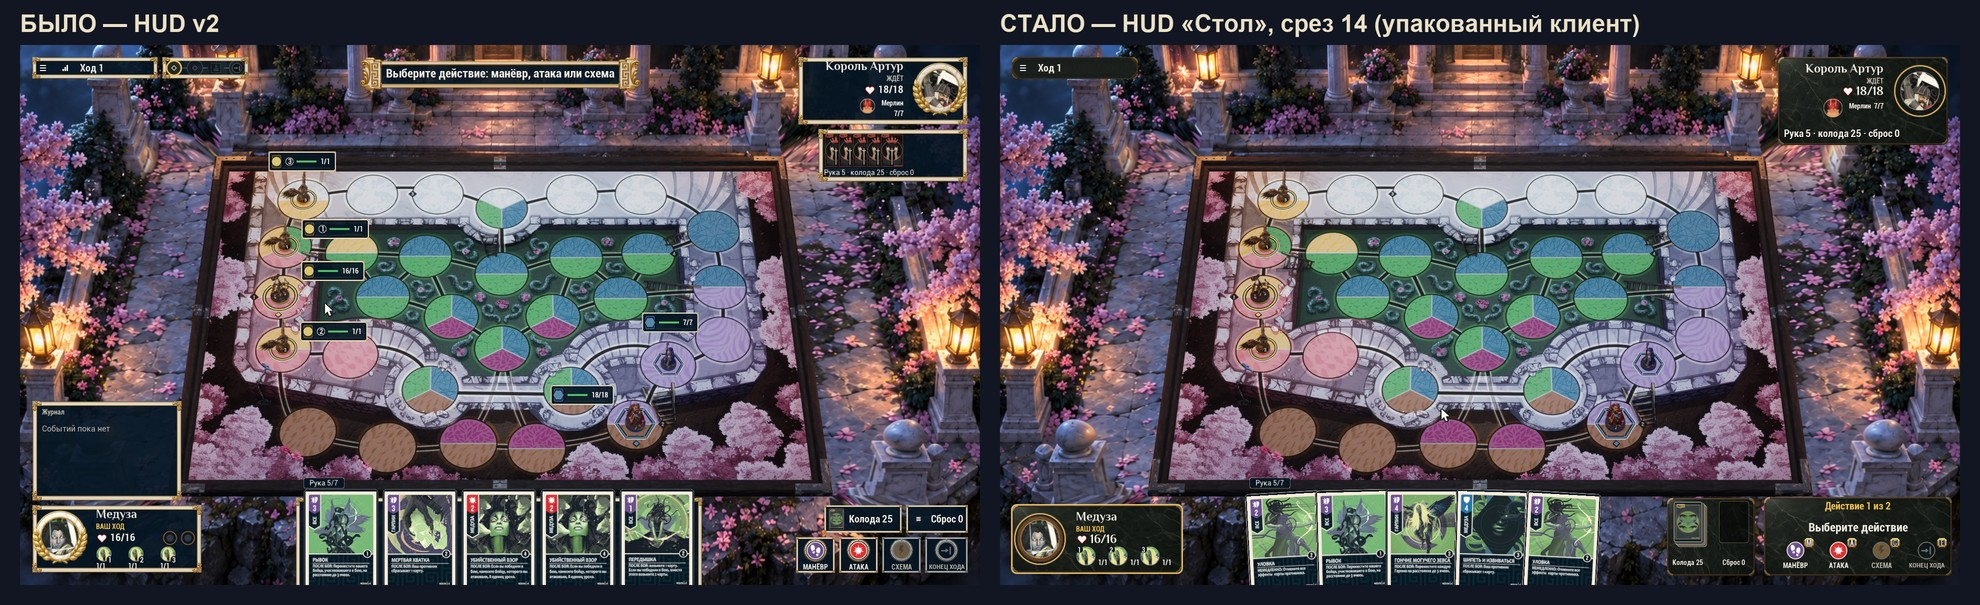
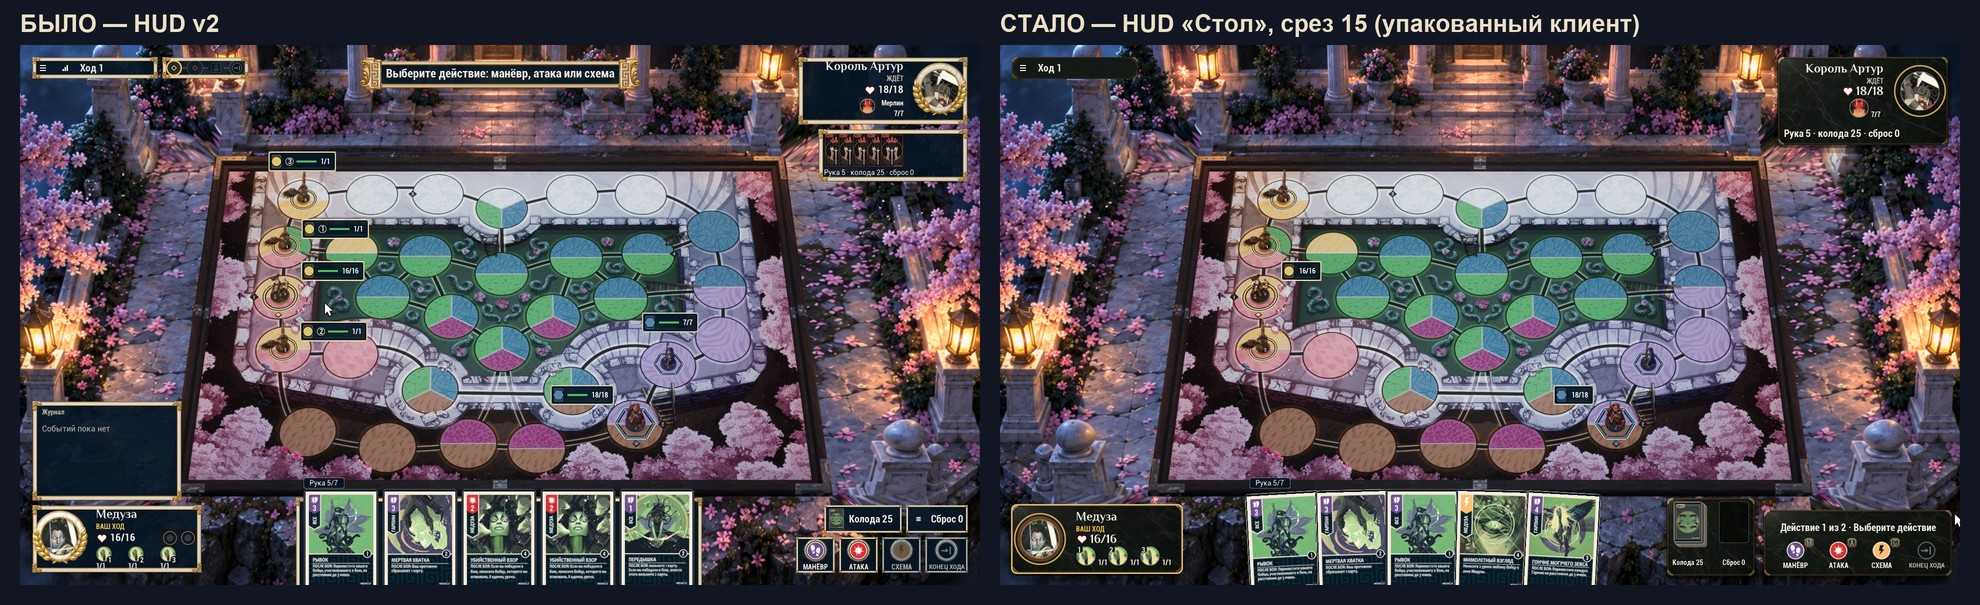
docs(hud): slice 15 pass and its blind review (Astra xhigh 7.0 vs 5.8, Opus max 7.0 vs 5.0)

diff --git a/docs/game-design/hud-redesign/08-BLIND-FINAL.md b/docs/game-design/hud-redesign/08-BLIND-FINAL.md
@@ -152,3 +152,40 @@ Opus +1,5 против +1,9, у Astra +1,17 против +1,5. Оценки чи
 
 Только у Opus: рука сдвинута на 115 px левее оси экрана, Мерлина показать жетоном, вернуть лавр на портреты
 героев.
+
+## Проход по общим замечаниям среза 14 — срез 15 (2026-10-16, 6c46cd44)
+
+Задание пользователя: «Сделай проход по совпадающим замечаниям среза 14 (значки v3 не трогай)».
+
+| Замечание (общее у Astra и Opus) | Что сделано |
+|---|---|
+| HP приходится искать в углах | Над каждым героем постоянно виден компактный чип здоровья. Плашки помощников показываются при наведении, выборе, на целях атаки и после урона. Зелёной полосы в стиле MMO на теге под видом «Стол» больше нет. |
+| Шапка панели в 2 строки тяжелее команд | Шапка в одну строку и на кегль меньше: «Действие 1 из 2 · Выберите действие». Номер действия берётся из трекера действий хода; пока идёт начатый шаг (движение манёвра, бой, отложенный выбор), показывается его действие (`FS09TurnStatusInput.ActionNow/ActionSlots`). Отдельная строка стадии убрана. |
+| Клавиши M/A/G/E ярче значков | Чипы клавиш на 55 % непрозрачности; на недоступной команде скрыты. Сами значки v3 не тронуты. |
+| Плоские плиты | Мягкая двухслойная тень под карточками героев, панелью соперника, панелью управления и лотком стопок. Мрамор под текстом затемнён ×0,4. |
+| Разные ячейки помощников | Мерлин показан жетоном с «7/7» сбоку, как гарпии. |
+
+Тесты: Unmatched.S08 — 397/397, Unmatched.S09 — 114/114. Проверено вживую на 1920×1080, 1280×720, 1440×1080 (S),
+2560×1080 и на черновике манёвра. Кадр снят с упакованного клиента.
+
+### Слепое сравнение среза 15 (`blind-s15/`; новый HUD — A)
+
+| Рецензент | HUD v2 | «Стол» | Разница | Срез 14 | Срез 13 |
+|---|---:|---:|---:|---:|---:|
+| GPT Astra xhigh | 5,8 | **7,0** | +1,2 | +1,83 | +1,17 |
+| Opus max | 5,0 | **7,0** | +2,0 | +2,2 | +1,5 |
+
+Новый HUD снова выиграл у обоих рецензентов. Абсолютная оценка держится около 7,0. Разница в пределах шума
+прогонов (±0,5): старый HUD тоже получает от раза к разу разные оценки. Срез 15 оценку не поднял. Читаемость Opus
+снова отдал новому HUD (7 против 6), у Astra — паритет.
+
+Совпадающие замечания этого прогона:
+1. **Рука.** Обрезана снизу, мелкий текст. Opus дополнительно: центр руки на ~115 px левее оси экрана.
+2. **HP на поле.** У Мерлина и гарпий числа нет; чип «16/16» читается как здоровье гарпии рядом. Нужна привязка
+   под кольцом базы, материал панелей вместо синего.
+3. **Панель действий.** Кнопки плоские, «Конец хода» не выделен. Это значки v3 — решает пользователь.
+4. **Панели игроков.** Нет единой сетки; Мерлин без подписи после среза 15 — регрессия, вернуть имя.
+5. **Колода и сброс.** Счётчики мелкие, пустой сброс выглядит как незаполненный слот.
+
+**Вывод для пользователя:** после среза 12 разница со старым HUD держится на 1,2–2,2 балла. Оставшиеся пункты
+упираются в арт: портреты, материал кнопок v3, чипы на поле. Раскладкой их уже не поднять.

diff --git a/docs/game-design/hud-redesign/blind-s15/REVIEW-ASTRA-XHIGH.md b/docs/game-design/hud-redesign/blind-s15/REVIEW-ASTRA-XHIGH.md
@@ -1,0 +1,27 @@
+Оцениваю именно HUD; качество общего фона и поля в баллы не включаю. Везде **10 — лучший результат**, включая отсутствие лишних иконок и премиальность.
+
+| Критерий | A | B |
+|---|---:|---:|
+| Визуальная цельность, единый язык материалов | 7 | 6 |
+| Ощущение дорогой физической настолки / уровень Arena | 7 | 6 |
+| Отсутствие лишних иконок и визуального шума | 8 | 5 |
+| Компоновка, иерархия внимания | 7 | 6 |
+| Читаемость при 1080p | 6 | 6 |
+| Премиальность вместо дешёвого/детского впечатления | 7 | 6 |
+| **Среднее** | **7,0** | **5,8** |
+
+**Побеждает A: +1,2 балла.** Тёмный камень и сдержанная латунь лучше сочетаются с окружением, поле сохраняет главный визуальный вес. У B узнаваемая сине-золотая палитра, но лавры, угловые украшения, греческий орнамент верхней плашки и многочисленные рамки конкурируют между собой. Особенно мешают большой пустой журнал и дополнительный баннер инструкции. До премиального уровня обеим версиям ещё требуется полировка.
+
+**Пять главных проблем A:**
+
+1. **Низ по центру — рука карт.** Нижняя часть карт обрезана, мелкий текст тяжело читать, наклоны добавляют тесноты. Поднять ряд до видимости нижних краёв, упорядочить перекрытия; для чтения предусмотреть крупный предпросмотр при наведении/выборе.
+
+2. **Поле — здоровье фигур.** Показатели есть у героев, но отсутствуют у Мерлина и гарпий; приходится сверяться с угловыми панелями. Добавить Мерлину компактное HP с однозначной привязкой к основанию. Гарпиям достаточно номера; подробности — при выборе.
+
+3. **Правый нижний угол — действия.** Заголовок заметнее самих команд; подписи и хоткеи мелкие, кнопки воспринимаются как россыпь цветных значков. Уменьшить заголовок, увеличить области кнопок и названия, визуально отделить завершение хода.
+
+4. **Правый верхний и левый нижний углы — панели игроков.** Разная организация портрета, здоровья и союзников затрудняет быстрое сравнение; у противника «7/7» не подписано именем. Ввести одинаковую информационную сетку, подписать Мерлина, ослабить строку «рука / колода / сброс».
+
+5. **Снизу справа от руки — колода и сброс.** Высокий блок занимает много места при маленьких счётчиках; пустой сброс выглядит как незаполненный слот. Сохранить объёмную стопку колоды, сократить высоту панели, увеличить числа и явно обозначить пустой сброс.
+
+**Что сохранить из B:** более заметные счётчики колоды и сброса; подпись «Мерлин»; доступность здоровья непосредственно на поле; более ровную раскладку руки. Постоянные зелёные полоски для каждой гарпии с **1/1** переносить не стоит — информации они почти не добавляют.

diff --git a/docs/game-design/hud-redesign/blind-s15/REVIEW-OPUS-MAX.md b/docs/game-design/hud-redesign/blind-s15/REVIEW-OPUS-MAX.md
@@ -1,0 +1,43 @@
+# Слепое сравнение, срез 15 — Opus max (2026-10-16)
+
+**A** — HUD «Стол», срез 15, упакованный клиент. **B** — HUD v2. Рецензент не знал, какой кадр новый.
+
+| Критерий | A | B |
+|---|---|---|
+| Цельность, один материальный язык | 7 | 6 |
+| Премиальная настолка / MTG Arena | 6 | 5 |
+| Иконочный шум (10 — лишнего нет) | 8 | 4 |
+| Ясность раскладки, порядок чтения | 7 | 5 |
+| Читаемость на 1080p | 7 | 6 |
+| Дёшево или премиально | 7 | 4 |
+| **Среднее** | **7,00** | **5,00** |
+
+**Вердикт:** A лучше на 2,0 балла, примерно +40 %. Основной разрыв — шум (+4), премиальность (+3) и раскладка (+2).
+
+## Пять главных проблем A
+
+1. **Нет центрального сигнала «ваш ход».**
+   - *Что видно:* верх по центру пуст, «ВАШ ХОД» набран мелко, подсказка стоит в углу.
+   - *Исправление:* временный баннер «Ваш ход · действие 1 из 2» на 2–3 с; затем чип хода; ореол активного портрета.
+2. **Портреты — сырые кропы рендеров, Мерлин без подписи.**
+   - *Исправление:* отдельные портретные рендеры — бюст 3/4, единый свет; подпись «Мерлин 7/7»; крупная цифра на
+     медальонах гарпий.
+3. **Рука смещена влево** (центр около x 845, ось экрана — 960), текст правил мелкий.
+   - *Исправление:* центрировать веер по оси; колоду и сброс сделать узкими стопками у панели действий; увеличение
+     ≥ ×2 при наведении.
+4. **Чипы HP на поле из чужого материала** (синие с кремовой рамкой) и неясно, к кому относятся.
+   - *Что видно:* «16/16» читается как здоровье гарпии.
+   - *Исправление:* материал панелей; чип строго под кольцом базы своей фигуры.
+5. **Панель действий.** Клавиши налезают на круги, кнопки плоские, у «Конца хода» не объяснено, почему он недоступен.
+   - *Исправление:* клавиши — в тултипе; металлический обод; причина недоступности в тултипе. Это значки v3,
+     решает пользователь.
+
+## Что из B стоит сохранить
+
+- центральную подсказку, но временную и согласованную с состоянием;
+- подпись помощника;
+- руку соперника маленьким веером рубашек;
+- явное «недоступно» у кнопок;
+- руку по центру;
+- крупные счётчики колоды и сброса;
+- журнал, появляющийся с первым событием.

diff --git a/docs/game-design/hud-redesign/blind-s15/PROMPT.md b/docs/game-design/hud-redesign/blind-s15/PROMPT.md
@@ -1,0 +1,21 @@
+You are a senior game UI art director (references: MTG Arena, Hearthstone, Legends of Runeterra, Unmatched Digital
+Edition, premium digital adaptations of physical tabletop games).
+
+Two screenshots of the SAME digital board game (Unmatched, a 1v1 miniatures game; board Marmoreal) at 1920x1080,
+turn 1, show two different HUD versions: A.jpg and B.jpg (both attached / in this folder). You do NOT know which is
+older or newer; do not guess, judge only what you see. Be adversarial and honest; do not favour either.
+
+Score each HUD 1-10 on:
+1. visual cohesion / one material language
+2. resemblance to a premium physical tabletop / MTG Arena tier product
+3. icon clutter (10 = nothing superfluous)
+4. layout clarity / where to look, reading order
+5. readability (text sizes, contrast, at 1080p)
+6. cheap/childish vs premium impression
+
+Then:
+- which HUD is better overall and by how much (averages);
+- the 5 biggest remaining problems of the BETTER one, each located on screen (region + element) with a concrete fix;
+- anything the worse one does better that should be kept.
+
+Answer in Russian, compact: score table with averages, verdict, problem list. Do not modify any files.
